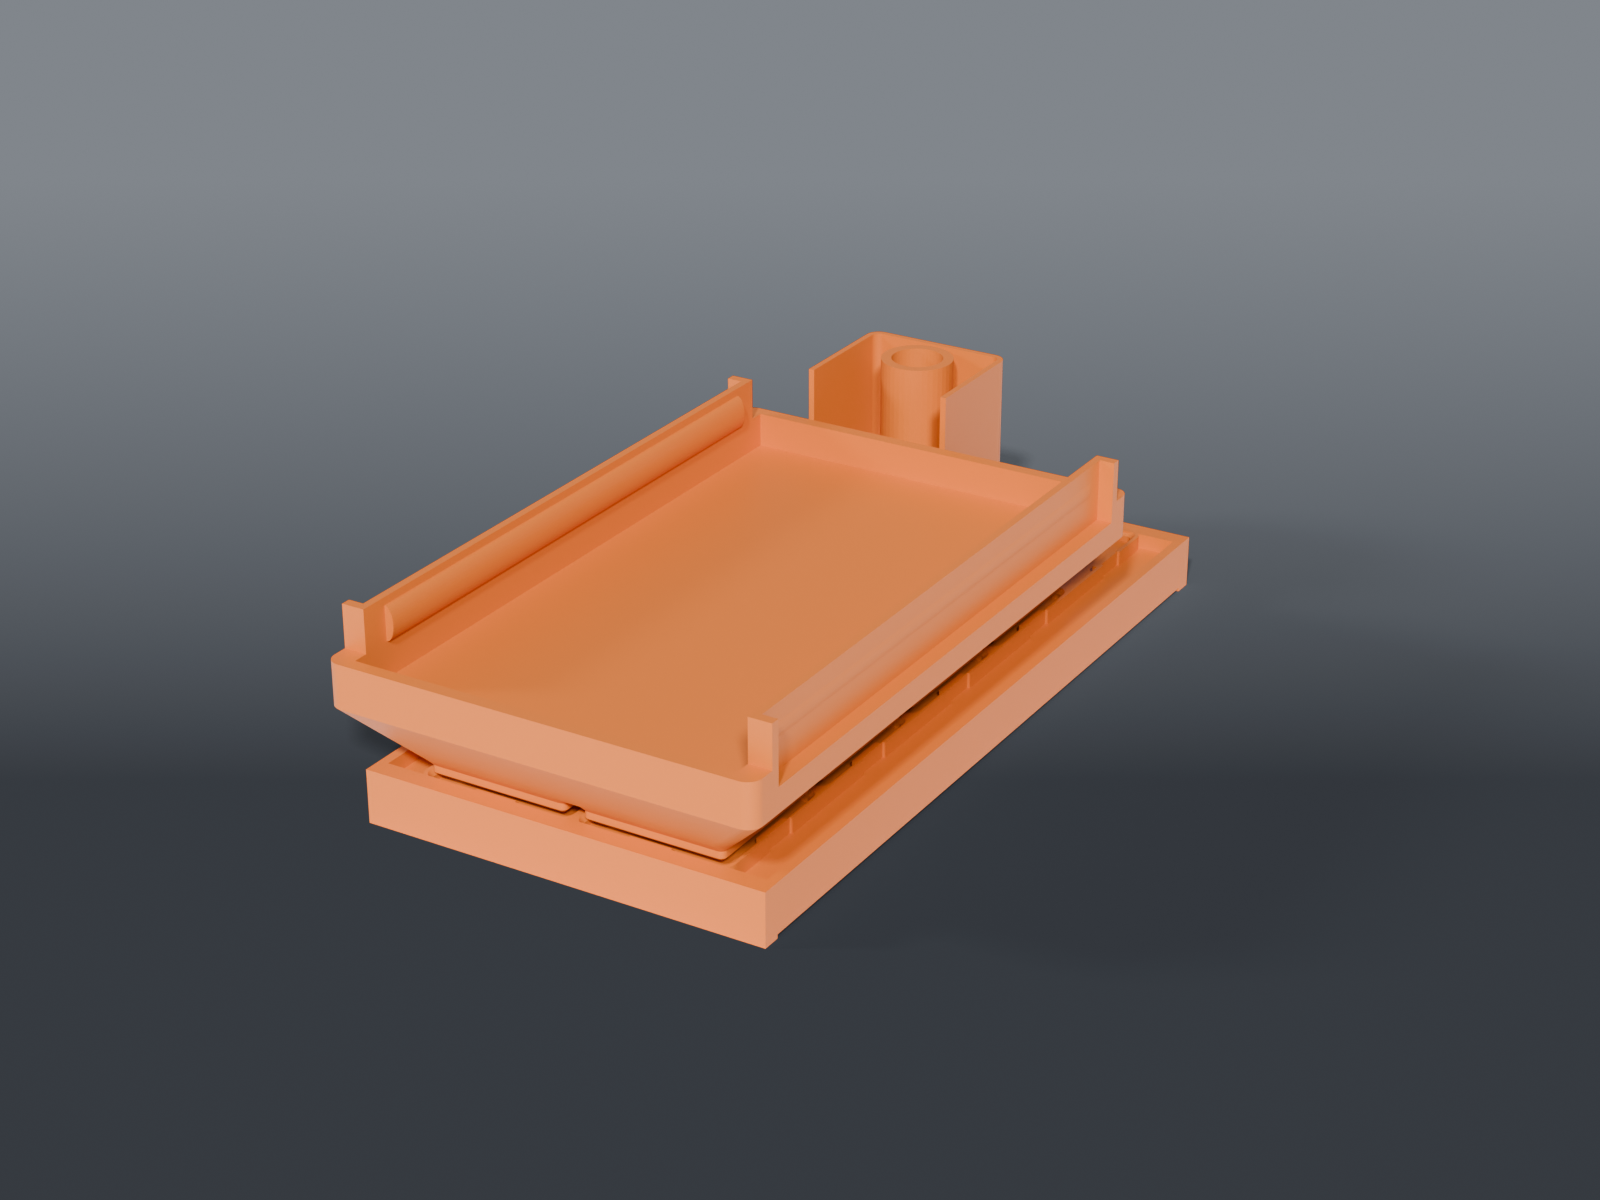
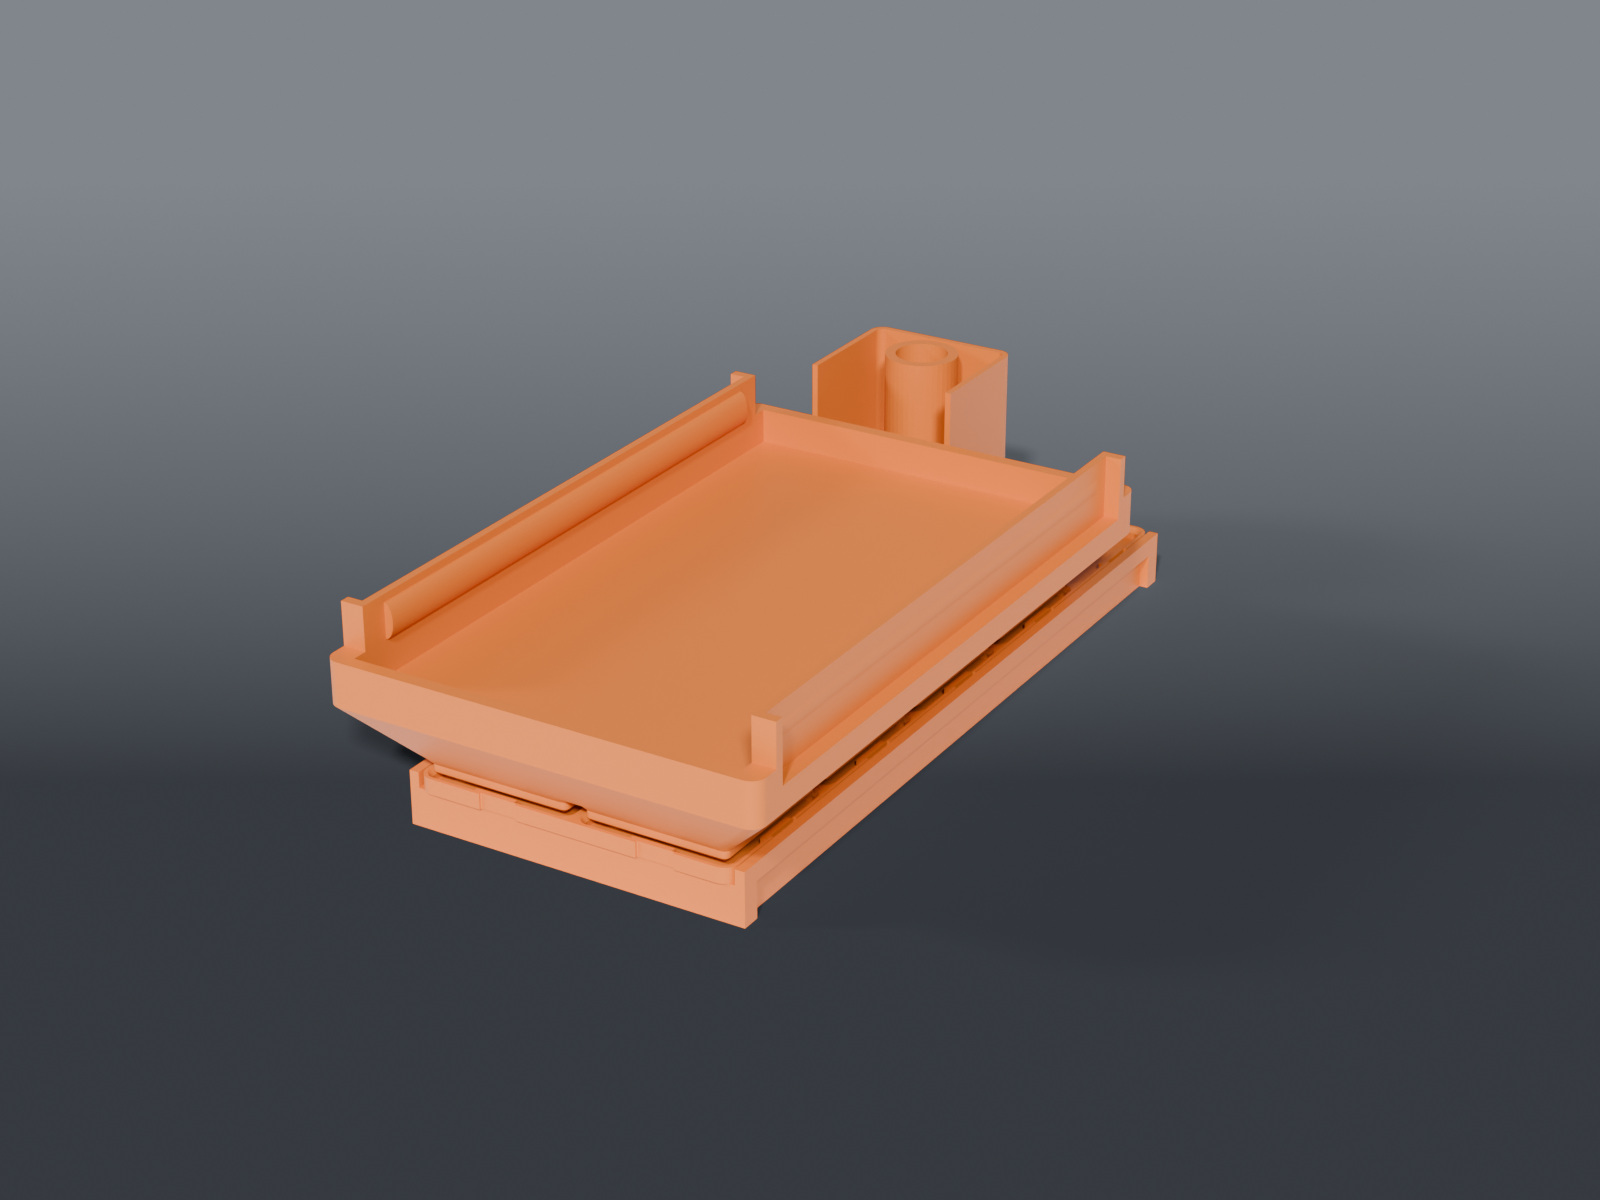
docs(engindot-shortkiller-topper): README and preview match the built assembly

diff --git a/engindot-shortkiller-topper/README.md b/engindot-shortkiller-topper/README.md
@@ -16,7 +16,7 @@ this one holds one instrument and its leads.
 
 | Part | File | Size | Print |
 |---|---|---|---|
-| **Frame** | `engindot_frame.scad` | 107.6 × 217 × 14 mm | ×1 — flat, **walls up** as rendered, no supports |
+| **Frame** | `engindot_frame.scad` | 89.6 × 207.65 × 14 mm | ×1 — flat, **walls DOWN** as rendered, no supports |
 | **Plate** | `engindot_plate.scad` | 84 × 210 × 4 mm | ×1 — flat, **latches up**, **PETG** |
 | **Shortkiller bin** | `bin_shortkiller.scad` | 113 × 180 × 42 mm | ×1 — flat, foot down, no supports |
 | **Probe + leads bucket** | `bin_probe_leads.scad` | 41.5 × 41.5 × 42 mm | ×1 — flat, foot down |
@@ -27,15 +27,26 @@ Shared dimensions live in `shortkiller_common.scad`.
 
 The frame **drops over the top** of the supply and is held passively:
 
-- **Front/back lips** (7 mm) hook the top edges → can't slide fore-aft. This is
-  what actually holds it on.
-- **Short side skirts** (6 mm) hug the case sides → can't slide sideways.
+- **The ledge bears 2 mm on the lid** down both sides → it seats at a fixed
+  depth instead of sliding down the skirts. This is the part that is easy to
+  leave out; the OWON has 2.15 mm of it, and a revision here that sized the
+  ledge off the plate instead of the case ended up with none.
+- **Front/back lips** (7 mm) hook the top edges → can't slide fore-aft.
+- **Short side skirts** (7 mm) hug the case sides → can't slide sideways.
 - **Gravity** does the rest.
 
 The skirts are deliberately short. The ENGINDOT vents the **full height of both
-sides**, so the OWON's 20 mm skirt would have sat over the intake. Since the lips
-carry the retention and the skirts only locate, 6 mm is enough. `SKIRT_D` takes
-it lower if you want.
+sides**, so the OWON's 20 mm skirt would have sat over the intake. 7 mm is
+enough to locate it. `SKIRT_D` takes it lower if you want — but it must stay
+equal to `END_LIP_D`, since walls-down they are both bed contact.
+
+**Measured, print-confirmed fits:** lid 80 × 196.85 mm (7¾″). Skirt span 80.0,
+lip-to-lip span 197.65. Both verified with `frame_width_gauge` and
+`frame_length_gauge` before the frame was cut.
+
+⚠ `MOUNT_L` is **derived**, not set. The end lips project inward by `END_BAR_T`,
+so the clear span is `MOUNT_L − 2×END_BAR_T`. Setting `MOUNT_L` to the case
+length gives a span 10 mm too small — that cost two frames.
 
 The top is solid — rear fan only — so a tray over the lid is thermally free.
 
@@ -128,12 +139,12 @@ Print-first parts, not bench parts. Each answers something a photo can't:
 | Setting | Value |
 |---|---|
 | Material | **Plate: PETG** (Clickfinity latches creep in PLA). Bins: PETG. Frame: either. |
-| Orientation | Plate flat, latches up. Frame flat, walls up. Bins flat, foot down. No supports anywhere. |
+| Orientation | Plate flat, latches up. Frame flat, **walls down**. Bins flat, foot down. No supports anywhere. |
 | Layer height | 0.2 mm |
 | Walls | Plate: Arachne, ≥ 2 loops (thin tongues). Bins: 3+. |
 | Cooling | Plate: modest — the tongues need layer bonding. |
 | Infill | 15 % |
-| Brim | Plate: outer-only, 5 mm, 0.15 mm gap. Everything else: none. |
+| Brim | Plate: outer-only, 5 mm, 0.15 mm gap. Frame: mouse ear (bed contact is two thin skirt rails). Bins: none. |
 
 ## Fit
 
@@ -141,6 +152,6 @@ Built for the measured unit — lid 102 × 216 mm, Shortkiller 98 × 171 mm. If 
 differs, the knobs are `CASE_W`, `MOUNT_L` and `SKIRT_D` for the frame, and
 `SK_W` / `SK_D` for the bin.
 
-**`MOUNT_L` is the frame's fit dimension.** The end lips must land on the front
-and rear top edges: too short and it won't drop on, too long and they hang in
-space with nothing resisting fore-aft slide.
+**Set `CASE_W` and `CASE_L` from the case, never the frame dimensions from the
+case.** `SKIRT_IN`, `MOUNT_L` and `LEDGE_IN` all derive from them, and asserts
+catch a span that cannot fit or a ledge with no bearing.
